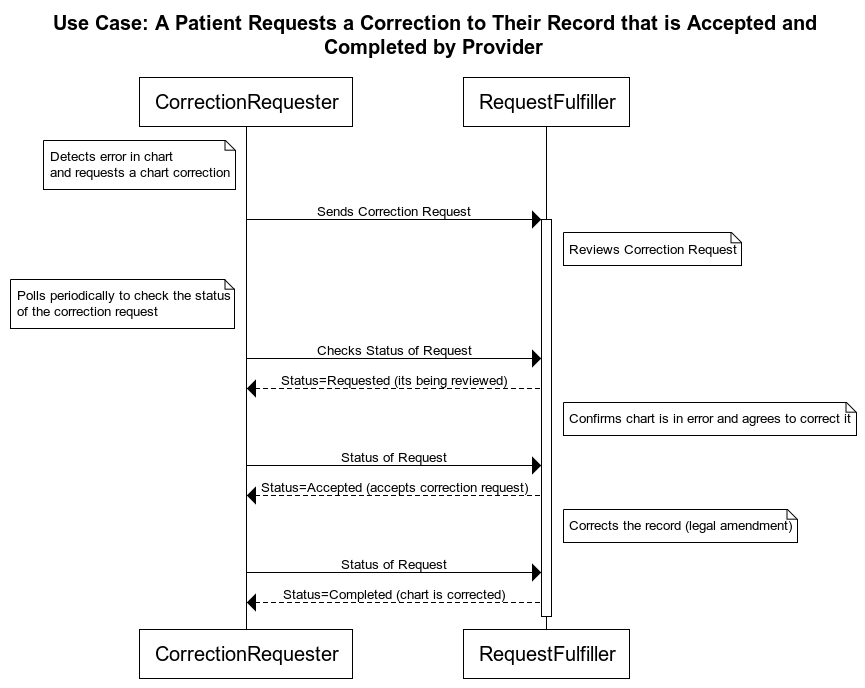
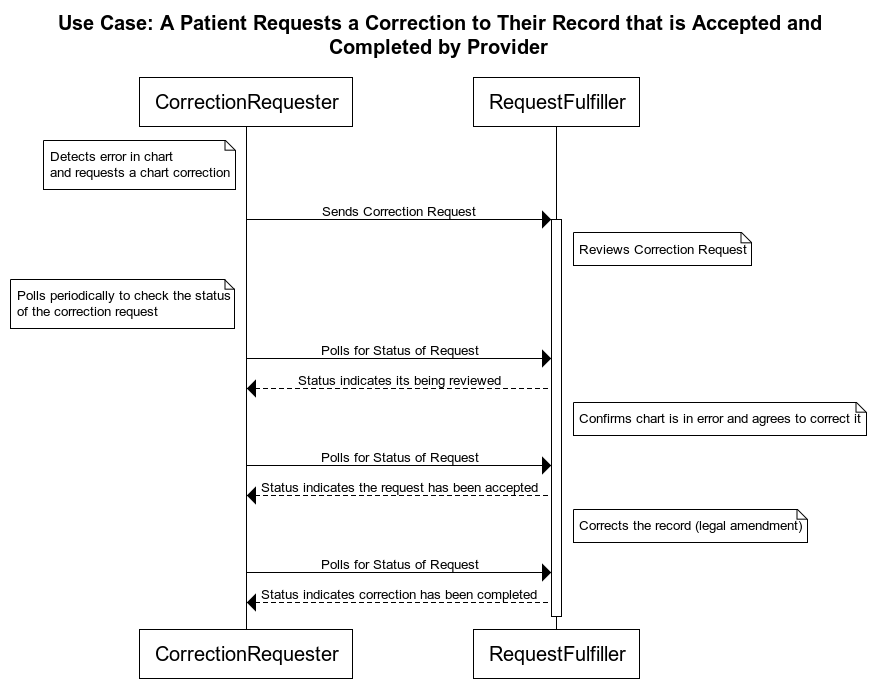
updated use case diagrams

diff --git a/input/pagecontent/actors-and-use-cases.md b/input/pagecontent/actors-and-use-cases.md
@@ -2,33 +2,33 @@
 
 Actor | Description
 ---|---
-CorrectionRequester | The CorrectionRequester represents a patient’s application, such as a personal health record.  A patient or their caregiver uses the application to request a correction to their medical record.
-RequestFulfiller | The RequestFulfiller represents a provider system – usually an EHR.  A Medical Records professional or clinician uses the provider system to review and process the correction request.
+CorrectionRequester | The CorrectionRequester represents a patient’s application, such as a personal health record. A patient or their caregiver uses the application to request a correction to their medical record.
+RequestFulfiller | The RequestFulfiller represents a provider system – usually an EHR. A Medical Records professional or clinician uses the provider system to review and process the correction request.
 
 ### Use cases
 
-> NOTE: The following list of use cases represent common use cases but is not an exhaustive list.  These use cases are designed to follow the HIPAA Request for Amendment workflow.
+> NOTE: The following list of use cases represent common use cases but is not an exhaustive list. These use cases are designed to follow the HIPAA Request for Amendment workflow.
 
 #### Use Case 1: Patient Requests a Correction to Their Medical Record Which is Accepted and Corrected
 
-A patient reviews the records received from a provider (most likely this review is of the electronic health information accessed on their personal health record application).  The patient determines that it contains one or more errors or discrepancies.  The patient enters a correction request using their application.  The request can be a simple unstructured request, but can also contain additional structured information to provide context or to pinpoint the error and the fix.  The application (CorrectionRequester) sends the correction request to the appropriate provider system (RequestFulfiller).  The provider (most likely a medical records professional but possibly a clinician) reviews the request on the provider system (EHR) and consults as needed with clinicians.  The chart on the EHR is reviewed to determine if the correction is appropriate.  The request for correction is accepted.  The appropriate personnel correct the chart (or charts if the error involves multiple charts) and creates formal amendments to the electronic health record.  The correction request is marked complete.  If the patient has requested that other parties be notified, notifications of the amendment are sent out accordingly.  Meanwhile, the patient has been able to use their application to check for the status of their correction request and is able to determine that it was being reviewed, then was accepted, and later completed.
+A patient reviews the records received from a provider (most likely this review is of the electronic health information accessed on their personal health record application). The patient determines that it contains one or more errors or discrepancies. The patient enters a correction request using their application. The request can be a simple unstructured request, but can also contain additional structured information to provide context or to pinpoint the error and the fix. The application (CorrectionRequester) sends the correction request to the appropriate provider system (RequestFulfiller). The provider (most likely a medical records professional but possibly a clinician) reviews the request on the provider system (EHR) and consults as needed with clinicians. The chart on the EHR is reviewed to determine if the correction is appropriate. The request for correction is accepted. The appropriate personnel corrects the chart (or charts if the error involves multiple charts) and creates formal amendments to the electronic health record. The correction request is marked complete. If the patient has requested that other parties be notified, notifications of the amendment are sent out accordingly. Meanwhile, the patient has been able to use their application to check for the status of their correction request and is able to determine that it was being reviewed, then was accepted, and later completed.
 
 {% include img.html img="use-case-1.png" %}
 
 #### Use Case 2: Patient Requests a Correction to Their Medical Record Which is Rejected
 
-A patient reviews the records received from a provider (most likely this review is of the electronic health information accessed on their personal health record application).  The patient determines that it contains one or more errors or discrepancies.  The patient enters a correction request using their application.  The request can be a simple unstructured request, but can also contain additional structured information to provide context or to pinpoint the error and the fix.  The application (CorrectionRequester) sends the correction request to the appropriate provider system (RequestFulfiller).  The provider (most likely a medical records professional but possibly a clinician) reviews the request on the provider system (EHR) and consults as needed with clinicians.  The chart on the EHR is reviewed to determine if the correction is appropriate.  It is determined that the chart is in fact correct.  The request for correction is rejected. The correction request is updated with: the reason for the rejection, an explanation that the patient has the right to log a disagreement, a statement that the individual may request the covered entity provide the individual's request for amendment and the denial with any future disclosures of the protected health information that is the subject of the amendment, a description of how the individual may complain to the covered entity. Meanwhile, the patient has been able to use their application to check for the status of their correction request and is able to determine that it is being reviewed and then later rejected.
+A patient reviews the records received from a provider (most likely this review is of the electronic health information accessed on their personal health record application). The patient determines that it contains one or more errors or discrepancies. The patient enters a correction request using their application. The request can be a simple unstructured request, but can also contain additional structured information to provide context or to pinpoint the error and the fix. The application (CorrectionRequester) sends the correction request to the appropriate provider system (RequestFulfiller). The provider (most likely a medical records professional but possibly a clinician) reviews the request on the provider system (EHR) and consults as needed with clinicians. The chart on the EHR is reviewed to determine if the correction is appropriate. It is determined that the chart is in fact correct. The request for correction is rejected. The correction request is updated with: the reason for the rejection, an explanation that the patient has the right to log a disagreement, a statement that the individual may request the covered entity provide the individual's request for amendment and the denial with any future disclosures of the protected health information that is the subject of the amendment, a description of how the individual may complain to the covered entity. Meanwhile, the patient has been able to use their application to check for the status of their correction request and is able to determine that it is being reviewed and then later rejected.
 
 {% include img.html img="use-case-2.png" %}
 
 #### Use Case 3: Patient Disagrees with Rejections to their Correction Request
 
-Upon receiving a rejection to their correction request, the patient decides to log a formal disagreement with the provider.  The patient enters the disagreement using their application.    The application (CorrectionRequester) sends the disagreement to the rejected correction request to the appropriate provider system (RequestFulfiller).  The provider (most likely a medical records professional but possibly a clinician) reviews the disagreement on the provider system (EHR) and consults as needed with clinicians.  The chart on the EHR might also be reviewed.  The provider determines that the chart is correct and is not swayed by the disagreement.  The provider connects the disagreement to the patient’s electronic chart so that it can be referred to and send along with the record.  The provider also potentially provides a formal rebuttal.  Meanwhile, the patient has been able to use their application to check for the status of their disagreement and is able to determine that it is being reviewed and then later accepted.
+Upon receiving a rejection to their correction request, the patient decides to log a formal disagreement with the provider. The patient enters the disagreement using their application.  The application (CorrectionRequester) sends the disagreement to the rejected correction request to the appropriate provider system (RequestFulfiller). The provider (most likely a medical records professional but possibly a clinician) reviews the disagreement on the provider system (EHR) and consults as needed with clinicians. The chart on the EHR might also be reviewed. The provider determines that the chart is correct and is not swayed by the disagreement. The provider connects the disagreement to the patient’s electronic chart so that it can be referred to and sent along with the record. The provider also potentially provides a formal rebuttal. Meanwhile, the patient has been able to use their application to check for the status of their disagreement and is able to determine that it is being reviewed and then later accepted.
 
 {% include img.html img="use-case-3.png" %}
 
 #### Use Case 4: Patient Requests a Correction to Their Medical Record and Later Sends an Update to Their Correction Request
 
-A patient reviews the records received from a provider (most likely this review is of the electronic health information accessed on their personal health record application).  The patient determines that it contains one or more errors or discrepancies.  The patient enters a correction request using their application.  The application (CorrectionRequester) sends the correction request to the appropriate provider system (RequestFulfiller).  The patient later determines the Correction Request is incorrect or incomplete.  For example, the patient may have entered the wrong information, or may want to add a supporting attachment, or a list of contacts to notify upon correction completion.  Their application sends an updated correction request to the provider system.  The provider system updates the correction request accordingly and continues processing it.
+A patient reviews the records received from a provider (most likely this review is of the electronic health information accessed on their personal health record application). The patient determines that it contains one or more errors or discrepancies. The patient enters a correction request using their application. The application (CorrectionRequester) sends the correction request to the appropriate provider system (RequestFulfiller). The patient later determines the Correction Request is incorrect or incomplete. For example, the patient may have entered the wrong information, or may want to add a supporting attachment, or a list of contacts to notify upon correction completion. Their application sends an updated correction request to the provider system. The provider system updates the correction request accordingly and continues processing it.
 
 {% include img.html img="use-case-4.png" %}
